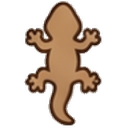
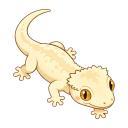
feat: replace legacy Gecko branding assets

diff --git a/gecko/v8/README.md b/gecko/v8/README.md
@@ -13,8 +13,9 @@ seed variation must be applied without substituting a different Gecko.
 - Dimensions: base `512x512`; action frames `256x256`; all RGBA PNG
 
 The complete per-file hash contract is `SHA256SUMS` in this directory. The app
-repository's canonical runtime manifest and asset commit pin are downstream
-contracts and are intentionally left for a separate integration.
+repository pins this runtime namespace to asset merge commit `16592ad2` and
+verifies the local, source, and published hashes. Later root-level branding
+commits do not alter that immutable 25-file runtime tree.
 
 ## RGB-only chroma cleanup v1
 
@@ -32,6 +33,7 @@ runtime frames.
 
 The active `gecko/v8` runtime namespace contains no legacy Gecko individual.
 Git history is the audit record; restoring `gecko/adult`, flat growth-stage
-sprites, or `geckos/iso` beneath this namespace is forbidden. Branding icons
-and unused historical backgrounds elsewhere in the asset repository are not
-covered by this 25-file runtime contract and are tracked for separate removal.
+sprites, or `geckos/iso` beneath this namespace is forbidden. Root branding
+compatibility paths now use the same approved actor and are documented in
+`BRANDING.md`; the unused `backgrounds/room_bg.png` with baked older actors was
+removed.

diff --git a/BRANDING.md b/BRANDING.md
@@ -1,0 +1,24 @@
+# Canonical Gecko branding assets
+
+These public compatibility paths are derived only from the approved Gecko v8
+base. They do not contain an older Gecko actor.
+
+Source:
+
+- `gecko/v8/normal/base/normal-crested-gecko-v8.png`
[1 lines of base64/hex data omitted]
+
+Outputs:
+
+- `icon.png`: 600x600 opaque RGB. The 512x512 source is placed at `(44, 44)`
+  over `#4A7C59`; scale 1, rotation 0, mirror false. SHA-256:
[1 lines of base64/hex data omitted]
+- `icons/tabs/tab_home.png`: 128x128 RGBA, uniform 0.25 scale using a
+  deterministic premultiplied-alpha average over each 4x4 source-pixel block;
+  rotation 0, mirror false. SHA-256:
[1 lines of base64/hex data omitted]
+
+The app repository owns the deterministic generators and verifies both outputs
+from the same approved source at the decoded-pixel level before release. The
+deprecated `backgrounds/room_bg.png` was removed because it baked older Gecko
+actors into an otherwise unused room image.
